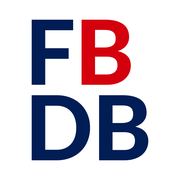
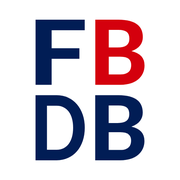
FBDBアイコンの字幅と間隔を整える
4文字とも横幅をBにそろえ（Fは広げ、Dは縮める）、各列の左端をそろえた。
列の間隔は行の間隔と同じにし、全体を正方形の中央に配置。

diff --git a/scripts/logo/make_icon_stacked.py b/scripts/logo/make_icon_stacked.py
@@ -5,19 +5,34 @@ from fontTools.pens.transformPen import TransformPen
 NAVY, RED = '#011D55', '#D4000D'
 f = TTFont('Lato-Black.ttf'); gs = f.getGlyphSet(); cmap = f.getBestCmap(); hmtx = f['hmtx']
 upm = f['head'].unitsPerEm; track = -0.01 * upm
-def line(letters, y):
-    x = 0; parts = []; bx = [1e9, 1e9, -1e9, -1e9]
-    for ch, col in letters:
-        g = cmap[ord(ch)]; t = (1, 0, 0, -1, x, y)
-        pen = SVGPathPen(gs); gs[g].draw(TransformPen(pen, t))
-        bp = BoundsPen(gs); gs[g].draw(TransformPen(bp, t)); a, b, c, d = bp.bounds
-        bx = [min(bx[0], a), min(bx[1], b), max(bx[2], c), max(bx[3], d)]
-        parts.append((pen.getCommands(), col)); x += hmtx[g][0] + track
-    return parts, bx
+def ink(ch):
+    g = cmap[ord(ch)]
+    bp = BoundsPen(gs); gs[g].draw(bp)
+    return g, bp.bounds  # (xmin, ymin, xmax, ymax)
+
+def put(ch, col, x, y, sx=1.0):
+    """字の輪郭の左端が x に来るように置く（列をそろえるため）。sx は横方向だけの拡大率"""
+    g, (ix, _, _, _) = ink(ch)
+    t = (sx, 0, 0, -1, x - ix * sx, y)
+    pen = SVGPathPen(gs); gs[g].draw(TransformPen(pen, t))
+    bp = BoundsPen(gs); gs[g].draw(TransformPen(bp, t))
+    return (pen.getCommands(), col), bp.bounds
+
 cap = 1451; gap = cap * 0.16
-l1, b1 = line([('F', NAVY), ('B', RED)], 0)
-l2, b2 = line([('D', NAVY), ('B', NAVY)], cap + gap)
-xmin = min(b1[0], b2[0]); xmax = max(b1[2], b2[2]); ymin = b1[1]; ymax = b2[3]
+# 1列目（F・D）と2列目（B・B）の左端をそろえる。列の間隔はフォントの字間から決める
+_, (fx0, _, fx1, _) = ink('F'); _, (dx0, _, dx1, _) = ink('D'); _, (bx0, _, _, _) = ink('B')
+# F・D は横幅を B に合わせる（B の幅は F と D のちょうど中間なので、変形が最小で済む）
+_, (_, _, bx1, _) = ink('B'); bw = bx1 - bx0
+sx_f = bw / (fx1 - fx0); sx_d = bw / (dx1 - dx0)
+col2 = bw + gap  # 2列目の左端。列の間隔は行の間隔（gap）と同じにする
+p1, bb1 = put('F', NAVY, 0, 0, sx_f)
+p2, bb2 = put('B', RED, col2, 0)
+p3, bb3 = put('D', NAVY, 0, cap + gap, sx_d)
+p4, bb4 = put('B', NAVY, col2, cap + gap)
+l1 = [p1, p2]; l2 = [p3, p4]
+bbs = [bb1, bb2, bb3, bb4]
+xmin = min(b[0] for b in bbs); xmax = max(b[2] for b in bbs)
+ymin = min(b[1] for b in bbs); ymax = max(b[3] for b in bbs)
 w, h = xmax - xmin, ymax - ymin
 S_ = max(w, h) * 1.28
 ox, oy = (S_ - w) / 2 - xmin, (S_ - h) / 2 - ymin

diff --git a/scripts/logo/README.md b/scripts/logo/README.md
@@ -2,13 +2,17 @@
 
 `public/brand/` のロゴ・アイコンは、Lato Black（Google Fonts、OFL）の文字の形をそのまま図形にしたもの。
 色は紺 #011D55、BRANDの頭文字「B」だけ赤 #D4000D。
+アイコンは2列（F・D／B・B）で、4文字とも横幅を B にそろえ（F は広げ、D は縮める）、列の間隔は行の間隔と同じにしている。
 
 ```
 python3 -m venv venv && ./venv/bin/pip install fonttools pillow
 curl -sL -o Lato-Black.ttf https://github.com/google/fonts/raw/main/ofl/lato/Lato-Black.ttf
 ./venv/bin/python make_logo_horizontal.py   # fbdb-logo.svg（横並び）
 ./venv/bin/python make_icon_stacked.py      # fbdb-icon-stacked.svg（2段・正方形）→ fbdb-icon.svg に改名
-qlmanage -t -s 512 -o . fbdb-icon-stacked.svg  # PNG化（macOS）。180pxは512pxから縮小
+# PNG化：ヘッドレスChromeで512pxに描画し、180pxはそこから縮小
+'/Applications/Google Chrome.app/Contents/MacOS/Google Chrome' --headless --disable-gpu \
+  --hide-scrollbars --screenshot=fbdb-icon-512.png --window-size=512,512 \
+  --default-background-color=FFFFFF "file://$PWD/fbdb-icon.svg"
 ```
 
 | ファイル | 用途 |
